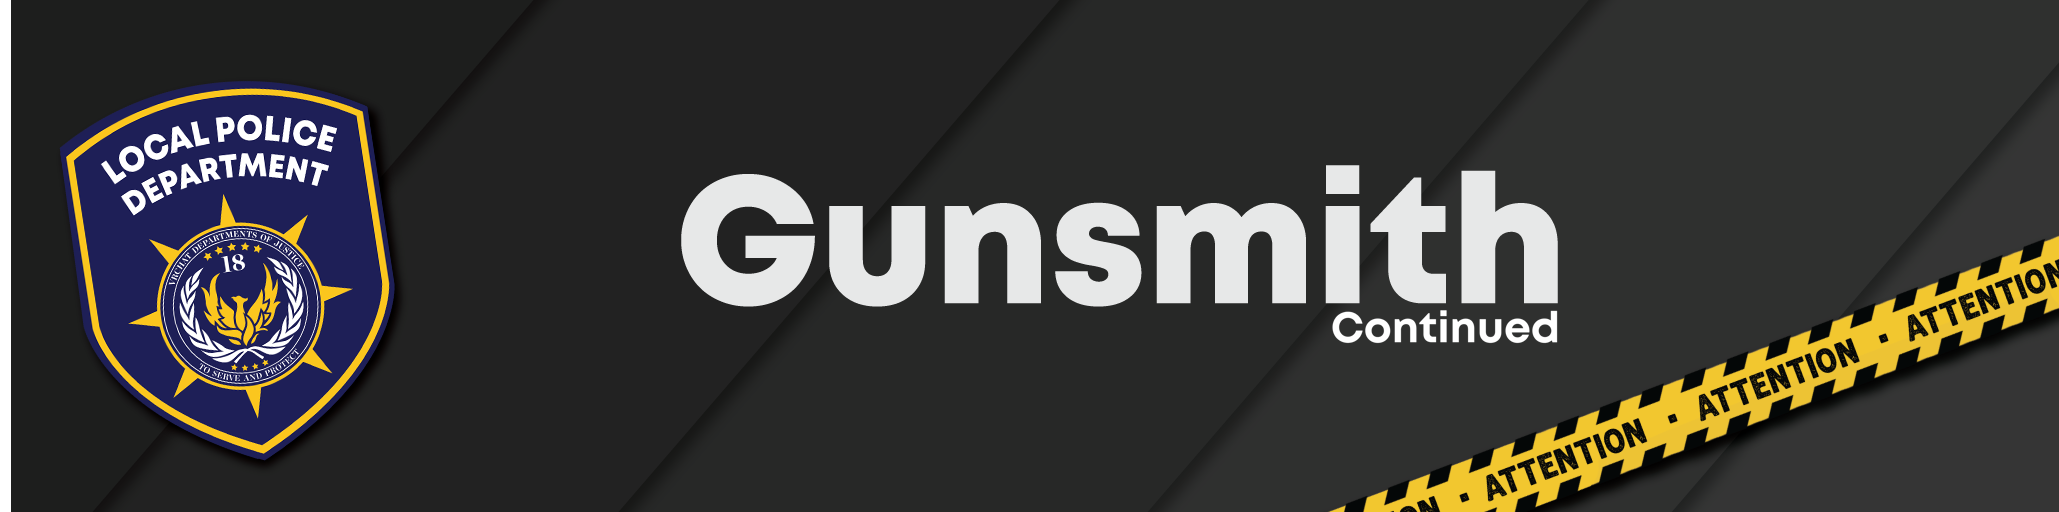
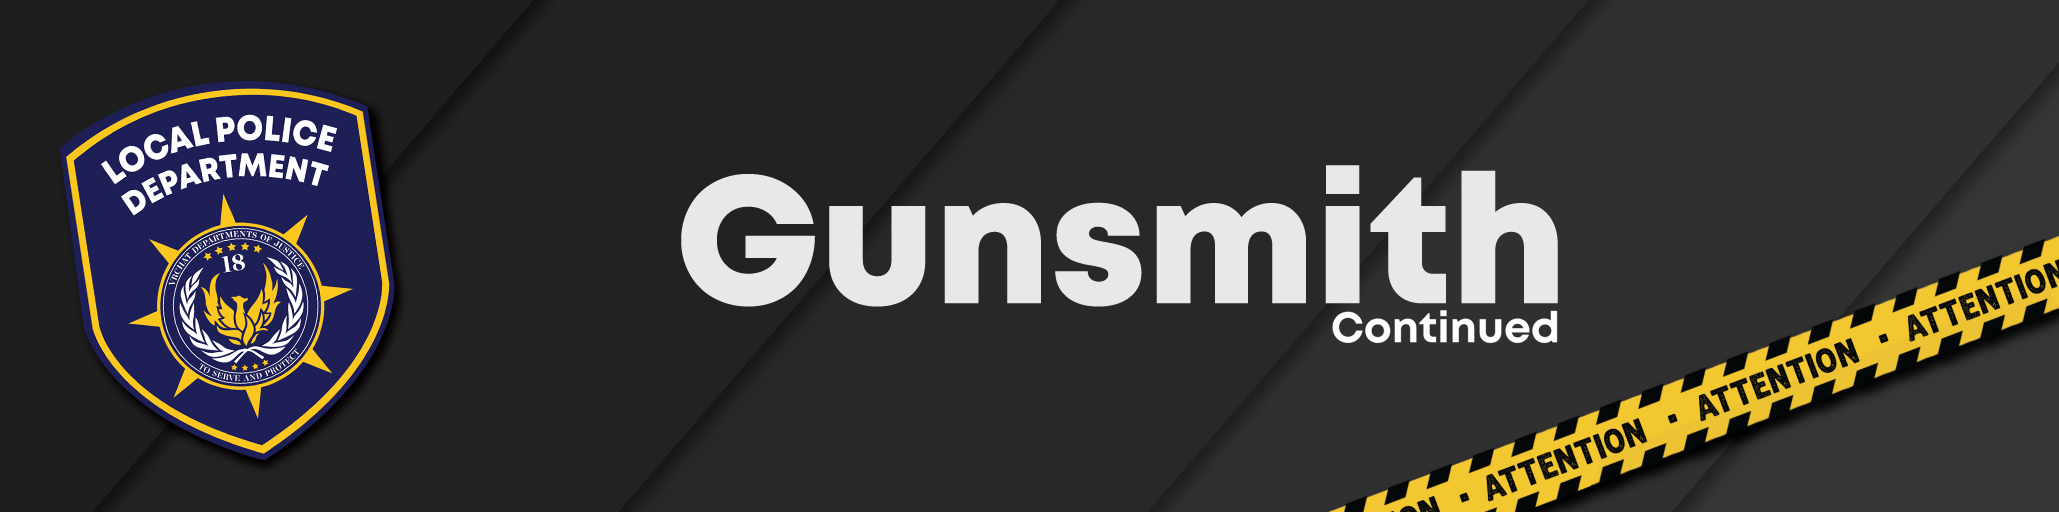
Update Gunsmith package

Changed region(s): [[0.0, 0.0, 0.0311, 1.0]]

diff --git a/Editor/GunsmithUtility.cs b/Editor/GunsmithUtility.cs
@@ -22,7 +22,7 @@ using VRC.SDK3.Avatars.Components;
 using VRC.SDK3.Avatars.ScriptableObjects;
 using System.Linq;
 
-namespace LoliPoliceDepartment.Utilities.Gunsmith
+namespace localPoliceDepartment.Utilities.Gunsmith
 {
     public class GunsmithUtility : EditorWindow
     {
@@ -89,10 +89,10 @@ namespace LoliPoliceDepartment.Utilities.Gunsmith
         AnimationClip MagCheckOutAnim;
         AnimationClip MagCheckInAnim;
 
-        [MenuItem("LPD/Gunsmith")]
+        [MenuItem("LPD/Gunsmith (Continued)")]
         public static void ShowWindow()
         {
-            GunsmithUtility window = (GunsmithUtility)GetWindow<GunsmithUtility>("Gunsmith");
+            GunsmithUtility window = (GunsmithUtility)GetWindow<GunsmithUtility>("Gunsmith (Continued)");
             window.maxSize = new Vector2(1024f, 4000);
             window.minSize = new Vector2(256, 512);
             window.Show();
@@ -100,11 +100,11 @@ namespace LoliPoliceDepartment.Utilities.Gunsmith
 
         public void OnEnable()
         {
-            HeaderTexture = (Texture2D)AssetDatabase.LoadAssetAtPath("Packages/com.lolipolicedepartment.gunsmith/Editor/TITLEBAR.png", typeof(Texture2D));
-            twitterLogo = (Texture2D)AssetDatabase.LoadAssetAtPath("Packages/com.lolipolicedepartment.gunsmith/Editor/SocialLogos/TwitterLogo.png", typeof(Texture2D));
-            discordLogo = (Texture2D)AssetDatabase.LoadAssetAtPath("Packages/com.lolipolicedepartment.gunsmith/Editor/SocialLogos/DiscordLogo.png", typeof(Texture2D));
-            youtubeLogo = (Texture2D)AssetDatabase.LoadAssetAtPath("Packages/com.lolipolicedepartment.gunsmith/Editor/SocialLogos/YoutubeLogo.png", typeof(Texture2D));
-            kofiLogo = (Texture2D)AssetDatabase.LoadAssetAtPath("Packages/com.lolipolicedepartment.gunsmith/Editor/SocialLogos/KofiLogo.png", typeof(Texture2D));
+            HeaderTexture = (Texture2D)AssetDatabase.LoadAssetAtPath("Packages/com.localpolicedepartment.gunsmith/Editor/TITLEBAR.png", typeof(Texture2D));
+            twitterLogo = (Texture2D)AssetDatabase.LoadAssetAtPath("Packages/com.localpolicedepartment.gunsmith/Editor/SocialLogos/TwitterLogo.png", typeof(Texture2D));
+            discordLogo = (Texture2D)AssetDatabase.LoadAssetAtPath("Packages/com.localpolicedepartment.gunsmith/Editor/SocialLogos/DiscordLogo.png", typeof(Texture2D));
+            youtubeLogo = (Texture2D)AssetDatabase.LoadAssetAtPath("Packages/com.localpolicedepartment.gunsmith/Editor/SocialLogos/YoutubeLogo.png", typeof(Texture2D));
+            kofiLogo = (Texture2D)AssetDatabase.LoadAssetAtPath("Packages/com.localpolicedepartment.gunsmith/Editor/SocialLogos/KofiLogo.png", typeof(Texture2D));
         }
 
         private void OnGUI()
@@ -531,7 +531,7 @@ namespace LoliPoliceDepartment.Utilities.Gunsmith
                 
                 GUI.backgroundColor = new Color(0.4509804f, 0.5411765f, 0.8588236f, 1f);
                 if (GUILayout.Button(new GUIContent(discordLogo, "Discord"), EditorStyles.miniButtonMid, GUILayout.Width(Screen.width / 4), GUILayout.Height(60))) Application.OpenURL("https://discord.gg/lpd");
-                GUI.backgroundColor = new Color(0.1137255f, .6313726f, 0.9490196f, 1f);
+                GUI.backgroundColor = new Color(0.2f, 0.2f, 0.2f, 1f);
                 if (GUILayout.Button(new GUIContent(twitterLogo, "Twitter"), EditorStyles.miniButtonMid, GUILayout.Width(Screen.width / 4), GUILayout.Height(60))) Application.OpenURL("https://x.com/LPD_vr");
                 GUI.backgroundColor = new Color(0.8039216f, 0.1254902f, 0.1215686f, 1f);
                 if (GUILayout.Button(new GUIContent(youtubeLogo, "Youtube"), EditorStyles.miniButtonMid, GUILayout.Width(Screen.width / 4), GUILayout.Height(60))) Application.OpenURL("https://www.youtube.com/@LPD_vr");
